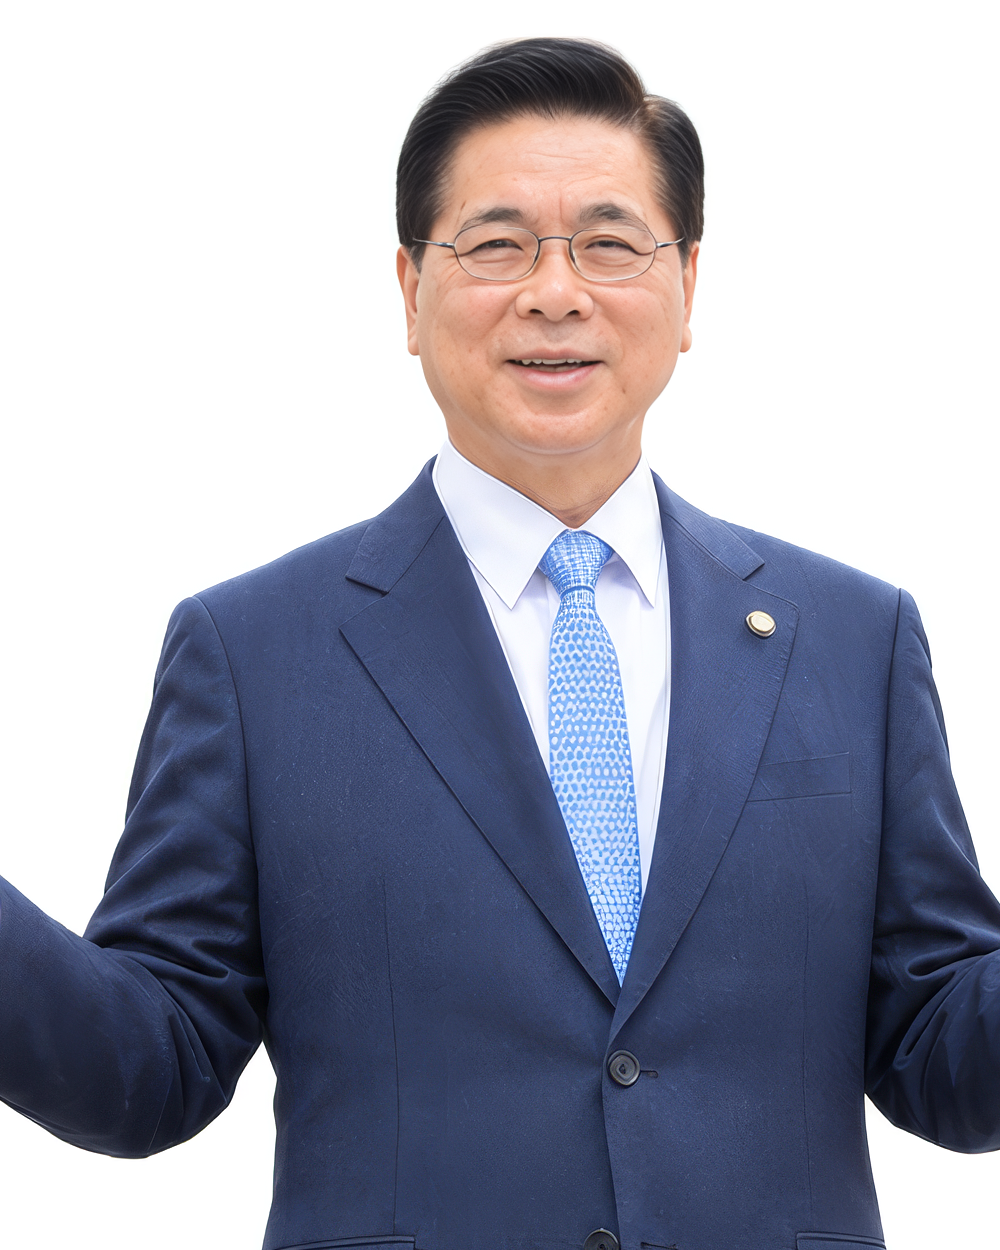
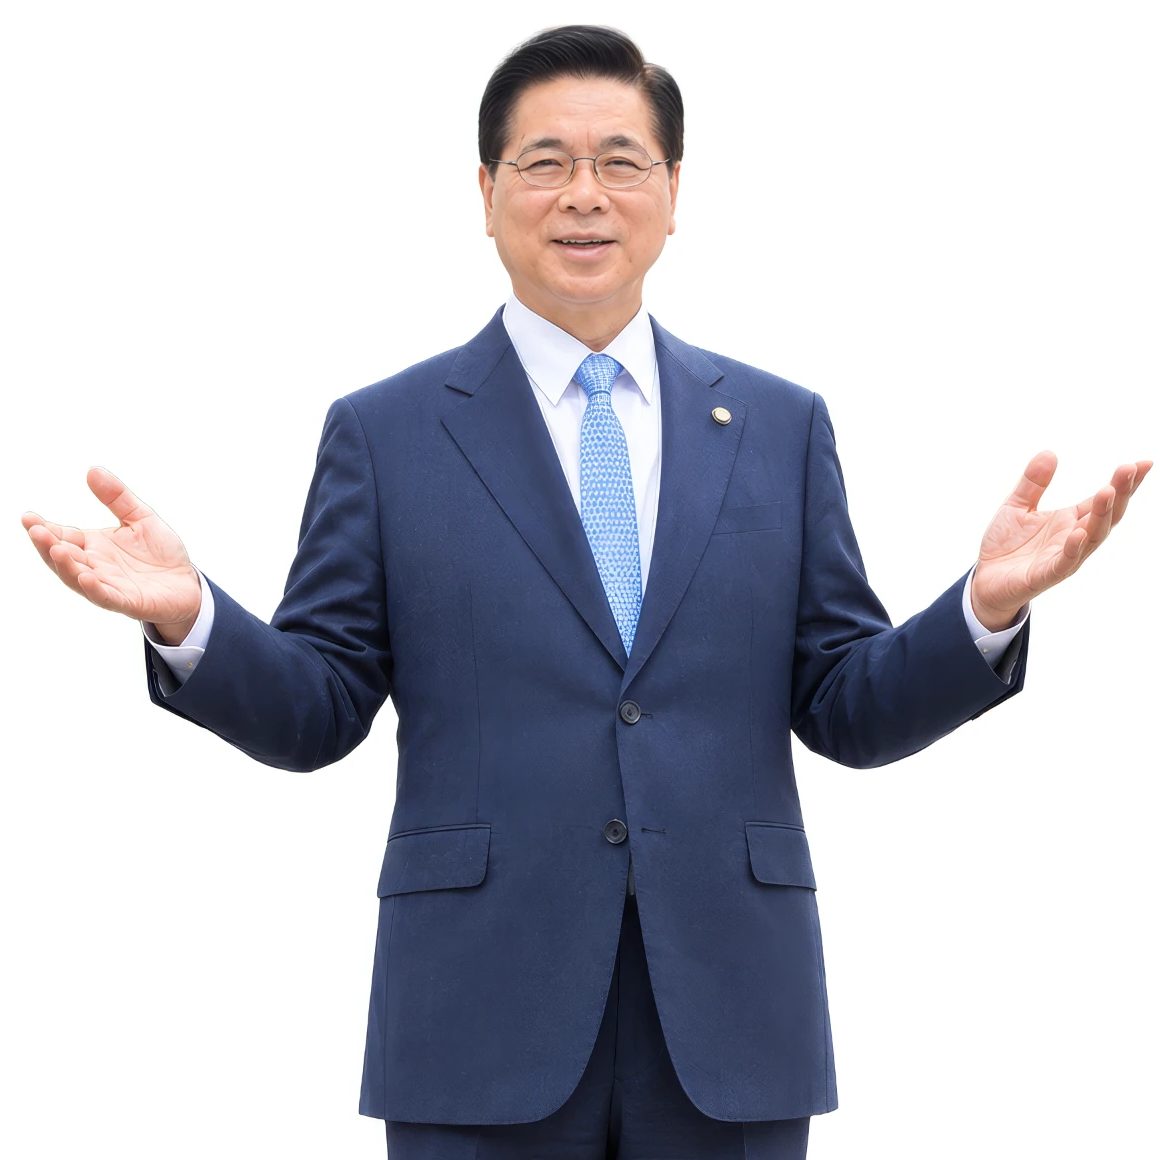
fix: update welcome message photo and standardize Rev. Lee's English name
- Replace welcome-message photo with a new waist-up shot supplied by the
  user
- Standardize the English rendering of Rev. Lee Young Hoon's name to
  "Dr. Younghoon Lee" across the welcome message, CGI intro, and
  organizer/footer representative field (previously "Lee Young Hoon")

diff --git a/src/content/event.ts b/src/content/event.ts
@@ -110,7 +110,7 @@ export const organizer = {
   },
   representative: {
     ko: "이영훈",
-    en: "Lee Young Hoon",
+    en: "Younghoon Lee",
   },
   registrationNumber: "609-82-84201",
   address: {
@@ -136,13 +136,13 @@ export const cgiLogo = {
 // content-source/01-official-facts/cgi-and-welcome-message.md for the
 // research notes and provenance.
 export const cgiIntro = {
-  id: "Church Growth International (CGI) didirikan pada tahun 1976 di bawah kepemimpinan visioner (Alm.) Dr. David Yonggi Cho, dengan komitmen yang mendalam terhadap pelayanan Roh Kudus, pertumbuhan gereja yang sehat, dan misi dunia. Selama hampir 50 tahun, CGI telah setia melayani gereja-gereja di berbagai negara dengan menjaga esensi Injil, memperlengkapi para pemimpin, dan memajukan misi Allah di antara bangsa-bangsa — melalui konferensi internasional tahunan, pengarsipan materi konferensi, dan penerbitan majalah pertumbuhan gereja. CGI saat ini dipimpin oleh Ketua Dr. Lee Young Hoon, Gembala Senior Yoido Full Gospel Church.",
-  en: "Church Growth International (CGI) was founded in 1976 under the visionary leadership of the late Dr. David Yonggi Cho, with a deep commitment to the ministry of the Holy Spirit, healthy church growth, and world missions. For nearly 50 years, CGI has faithfully served churches around the world by preserving the essence of the Gospel, empowering leaders, and advancing God's mission among the nations — through an annual international conference, archiving past conference materials, and publishing a church growth magazine. CGI is currently led by Chairman Dr. Lee Young Hoon, Senior Pastor of Yoido Full Gospel Church.",
+  id: "Church Growth International (CGI) didirikan pada tahun 1976 di bawah kepemimpinan visioner (Alm.) Dr. David Yonggi Cho, dengan komitmen yang mendalam terhadap pelayanan Roh Kudus, pertumbuhan gereja yang sehat, dan misi dunia. Selama hampir 50 tahun, CGI telah setia melayani gereja-gereja di berbagai negara dengan menjaga esensi Injil, memperlengkapi para pemimpin, dan memajukan misi Allah di antara bangsa-bangsa — melalui konferensi internasional tahunan, pengarsipan materi konferensi, dan penerbitan majalah pertumbuhan gereja. CGI saat ini dipimpin oleh Ketua Dr. Younghoon Lee, Gembala Senior Yoido Full Gospel Church.",
+  en: "Church Growth International (CGI) was founded in 1976 under the visionary leadership of the late Dr. David Yonggi Cho, with a deep commitment to the ministry of the Holy Spirit, healthy church growth, and world missions. For nearly 50 years, CGI has faithfully served churches around the world by preserving the essence of the Gospel, empowering leaders, and advancing God's mission among the nations — through an annual international conference, archiving past conference materials, and publishing a church growth magazine. CGI is currently led by Chairman Dr. Younghoon Lee, Senior Pastor of Yoido Full Gospel Church.",
 } as const;
 
 // DRAFT — written to expand on eventFacts.purpose for the About page's
 // welcome-message section. This has NOT been reviewed or approved by
-// Rev. Lee Young Hoon or CGI leadership; it must be signed off before it
+// Rev. Younghoon Lee or CGI leadership; it must be signed off before it
 // is presented publicly as his own words. Swap in the real text once
 // provided. See content-source/01-official-facts/cgi-and-welcome-message.md.
 export const welcomeMessage = {
@@ -151,7 +151,7 @@ export const welcomeMessage = {
 } as const;
 
 export const welcomeMessageAuthor = {
-  name: "Dr. Lee Young Hoon",
+  name: "Dr. Younghoon Lee",
   title: {
     id: "Ketua Church Growth International (CGI) / Gembala Senior Yoido Full Gospel Church",
     en: "Chairman, Church Growth International (CGI) / Senior Pastor, Yoido Full Gospel Church",
